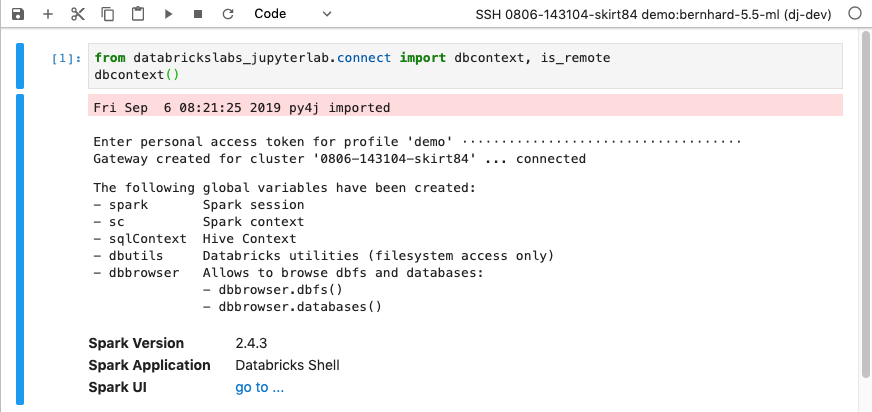
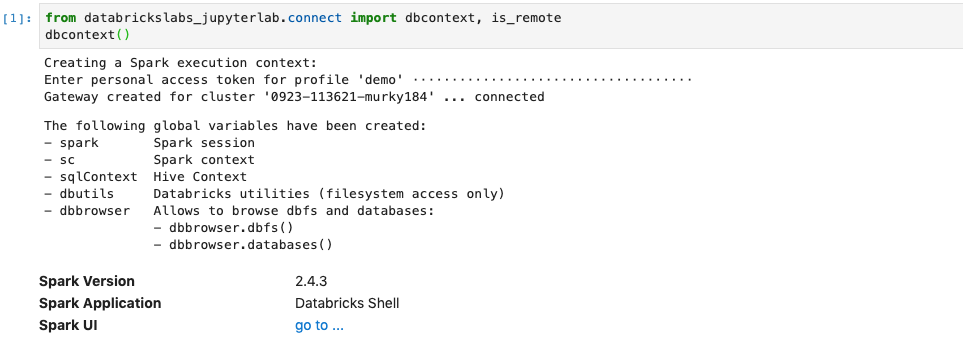
suppress py4j warning

Changed region(s): [[0.0, 0.0, 1.0, 1.0], [0.2787, 0.7988, 0.4335, 0.9763], [0.5883, 0.355, 0.6812, 0.4142]]

diff --git a/databrickslabs_jupyterlab/connect.py b/databrickslabs_jupyterlab/connect.py
@@ -2,6 +2,7 @@ import atexit
 import base64
 import configparser
 import getpass
+import io
 import os
 import random
 import sys
@@ -24,7 +25,16 @@ try:
     import warnings
     with warnings.catch_warnings():
         warnings.simplefilter("ignore")
+        # Suppress py4j loading message on stderr by redirecting sys.stderr
+        stderr_orig = sys.stderr
+        sys.stderr = io.StringIO()
         from PythonShell import get_existing_gateway, RemoteContext  # pylint: disable=import-error
+        out = sys.stderr.getvalue()
+        # Restore sys.stderr
+        sys.stderr = stderr_orig
+        # Print any other error message to stderr
+        if not "py4j imported" in out:
+            print(out, file=sys.stderr)
 
     from dbutils import DBUtils  # pylint: disable=import-error
 except:
@@ -138,7 +148,7 @@ def dbcontext(progressbar=True):
 
     # Create a Databricks virtual python environment and start thew py4j gateway
     #
-    token = getpass.getpass("\nEnter personal access token for profile '%s'" % profile)
+    token = getpass.getpass("Creating a Spark execution context:\nEnter personal access token for profile '%s'" % profile)
 
     try:
         command = Command(url=host, cluster_id=clusterId, token=token)
